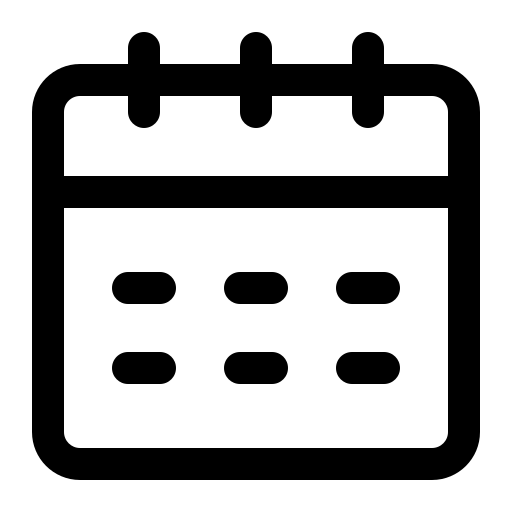
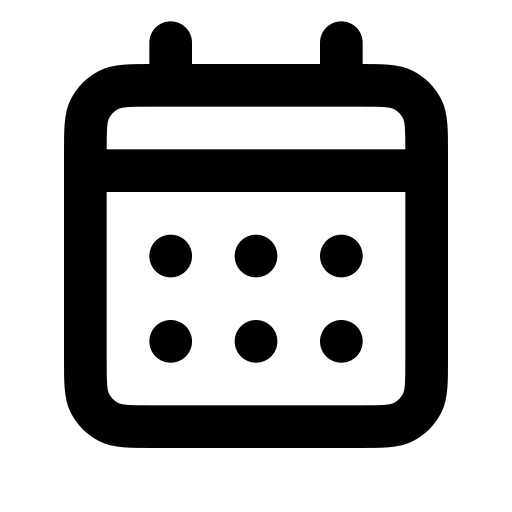
add group link on eventDetail page

diff --git a/server/database/fixtures/EventSeeder.ts b/server/database/fixtures/EventSeeder.ts
@@ -1,23 +1,27 @@
 import AbstractSeeder from "./AbstractSeeder";
 import "dotenv/config";
+import client from "../client";
 
 class EventSeeder extends AbstractSeeder {
   constructor() {
     super({ table: "event", truncate: true });
   }
 
-  run() {
+  async run() {
+    const [rows] = await client.query("SELECT id, name FROM music_group");
+    const groups = rows as { id: number; name: string }[];
     for (let i = 0; i < 10; i++) {
+      const randomGroup = groups[Math.floor(Math.random() * groups.length)];
       const fakeEvent = {
         date: this.faker.date.soon({ days: 30 }),
         start_at: this.faker.date.anytime().toTimeString().slice(0, 5),
         end_at: this.faker.date.anytime().toTimeString().slice(0, 5),
         description: this.faker.lorem.paragraph(),
         image: this.faker.image.urlPicsumPhotos({ width: 400, height: 200 }),
-        title: `${this.faker.music.genre()} Show with ${this.faker.person.firstName()}`,
+        title: `${randomGroup.name}`,
         creator_id: this.faker.number.int({ min: 1, max: 30 }),
         bar_id: this.faker.number.int({ min: 1, max: 28 }),
-        music_group_id: this.faker.number.int({ min: 1, max: 19 }),
+        music_group_id: randomGroup.id,
         refName: `event_${i}`,
       };
 

diff --git a/client/src/pages/Event/EventDetail.tsx b/client/src/pages/Event/EventDetail.tsx
@@ -7,6 +7,7 @@ import { format, isToday } from "date-fns";
 import { fr } from "date-fns/locale";
 import "./EventDetail.css";
 import type { EventInterface } from "../../types/Eventdetail";
+import { Link } from "react-router";
 
 function EventDetail() {
   const { id } = useParams();
@@ -46,7 +47,7 @@ function EventDetail() {
         <div className="header-style">
           <p className="music-style bold">{eventDetail.music_style}</p>
         </div>
-        <h1>{eventDetail.title}</h1>
+        <h1>{eventDetail.music_group_name}</h1>
 
         <img
           className="poster-event"
@@ -106,7 +107,12 @@ function EventDetail() {
         <p className="about white">A propos</p>
         <p className="event-description">{eventDetail.description}</p>
         <p className="artist white">Les artistes</p>
-        <p className="groups-name">{eventDetail.title}</p>
+        <Link
+          to={`/groups/${eventDetail.music_group_id ?? ""}`}
+          className="groups-name"
+        >
+          {eventDetail.music_group_name}
+        </Link>
       </section>
     </main>
   );

diff --git a/client/src/pages/Event/EventDetail.css b/client/src/pages/Event/EventDetail.css
@@ -17,6 +17,7 @@ section.event-header {
   grid-row: 2 / 4;
   padding-left: 47px;
   padding-top: 66px;
+  padding-bottom: 50px;
 }
 
 .poster-event {
@@ -78,8 +79,8 @@ section.event-header {
 }
 
 .hour-icon {
-  width: 32px;
-  height: 32px;
+  width: 1.5rem;
+  height: auto;
 }
 
 .bar {
@@ -93,6 +94,7 @@ section.event-header {
 .localisation-icon {
   width: 2rem;
   height: auto;
+  color: white;
 }
 
 .bar-name {
@@ -105,6 +107,11 @@ section.event-header {
   display: flex;
   flex-direction: column;
   padding-left: 3.2rem;
+  padding-top: 1rem;
+}
+
+.bar-adress p {
+  font-size: 1.4rem;
 }
 
 .description-container {
@@ -116,6 +123,10 @@ section.event-header {
 
 .description-container p {
   align-content: center;
+}
+
+.event-description {
+  font-size: 1.5rem;
 }
 
 .about {

diff --git a/server/src/modules/event/eventRepository.ts b/server/src/modules/event/eventRepository.ts
@@ -1,18 +1,6 @@
 import databaseClient from "../../../database/client";
 import type { Rows } from "../../../database/client";
 
-type Event = {
-  id: number;
-  title: string;
-  date: number;
-  event_beginning: string;
-  event_ending: string;
-  description: string;
-  creator_id: number;
-  bar_id: number;
-  group_id: number;
-};
-
 class eventRepository {
   async readById(id: number) {
     const [rows] = await databaseClient.query<Rows[]>(
@@ -31,7 +19,8 @@ class eventRepository {
     bar.city,
     bar.latitude AS latitude,
     bar.longitude AS longitude,
-    music_group.description
+    music_group.description,
+    music_group.id AS music_group_id
   FROM event
   LEFT JOIN music_group ON event.music_group_id = music_group.id
   LEFT JOIN bar ON event.bar_id = bar.id

diff --git a/client/src/router.tsx b/client/src/router.tsx
@@ -19,6 +19,12 @@ const router = createBrowserRouter([
       {
         path: "/groups/:id",
         element: <MusicGroup />,
+        children: [
+          {
+            path: "events/:eventId",
+            element: <EventDetail />,
+          },
+        ],
       },
     ],
   },

diff --git a/client/src/types/Eventdetail.ts b/client/src/types/Eventdetail.ts
@@ -11,4 +11,7 @@ export type EventInterface = {
   address: string;
   postcode: string;
   city: string;
+  group_id: number;
+  music_group_name: string;
+  music_group_id: number;
 };
